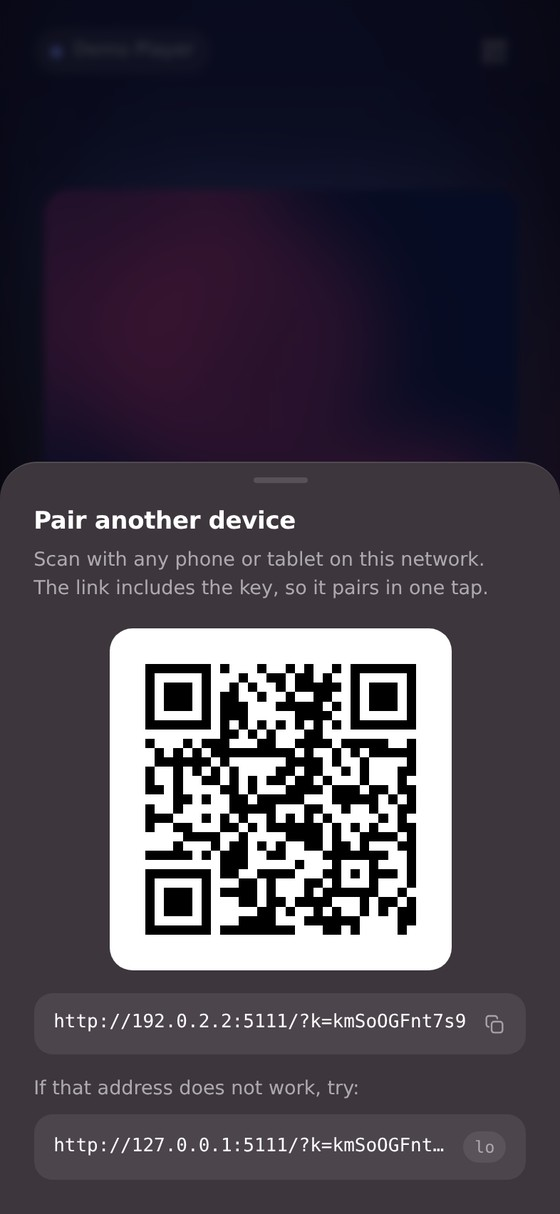
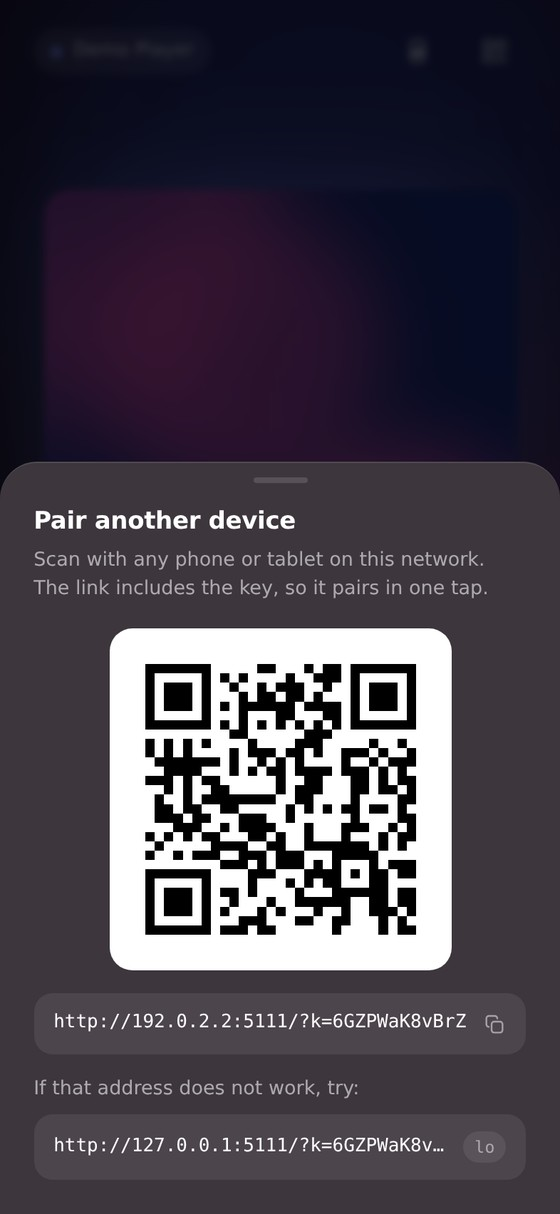
Put the PC's playback on the phone's lock screen
A web page only earns a place on a phone's lock screen while it is audibly
playing something, so a new toggle in the header loops ten seconds of digital
silence and paints the PC's track over it through the Media Session API: the
real artwork, title, play/pause, skip and the lock screen's own scrubber, all
wired back to the PC. Works on iOS 15+ and Android Chrome.

The details that make it behave:
- The silence is genuinely silent samples, because iOS ignores an audio
  element's volume property; and it is served with range support, because
  Safari refuses media from a server that will not serve it partially.
- The anchor track mirrors the remote state -- a pause on the PC pauses the
  silence -- because iOS shows the element's actual state on the lock screen,
  not the declared one.
- Opt-in, off by default: holding a lock-screen spot means taking the phone's
  audio focus, which pauses whatever the phone itself was playing, and autoplay
  rules require a tap to start audio anyway. The choice is remembered, and after
  a reload the first tap anywhere re-arms it.
- Explicit play/pause commands where the app advertises them, its toggle
  otherwise; the lock-screen scrubber seeks only when the app allows seeking.
- With nothing playing on the PC the tile is cleared rather than left showing a
  stale track over silence.

Verified in a browser: enabling starts the anchor and fills the session's
metadata and artwork, remote pause/play and track changes follow through to the
[…]

diff --git a/static/app.js b/static/app.js
@@ -30,6 +30,7 @@
     source: $('source'), sourceName: $('sourceName'),
     sourceSheet: $('sourceSheet'), sourceList: $('sourceList'),
     pair: $('pair'), pairSheet: $('pairSheet'), qrHolder: $('qrHolder'),
+    lockscreen: $('lockscreen'),
     pairUrl: $('pairUrl'), copyUrl: $('copyUrl'), altUrls: $('altUrls'),
     empty: $('empty'), emptyTitle: $('emptyTitle'), emptyBody: $('emptyBody'),
     toast: $('toast'), themeColor: document.querySelector('meta[name="theme-color"]'),
@@ -424,6 +425,7 @@
     if (!seekable()) seekRail.cancel();
     if (!(next.volume && next.volume.available)) volRail.cancel();
 
+    lockscreen.sync(next);
     renderVolume();
     renderSources(next);
     renderTime();
@@ -657,6 +659,160 @@
     }
   }
   el.copyUrl.addEventListener('click', () => copy(el.copyUrl.dataset.url));
+
+  /* ------------------------------------------------------------- lock screen --
+   * A web page only gets a spot on the phone's lock screen while it is "playing"
+   * something, so this loops ten seconds of digital silence and paints the PC's track
+   * over it through the Media Session API: artwork, title, transport buttons and the
+   * scrubber all appear where a local player's would. Opt-in, because starting the
+   * silent track takes the phone's audio focus -- it will pause anything the phone
+   * itself is playing -- and because autoplay rules require a tap to start it anyway.
+   */
+
+  const lockscreen = (() => {
+    const supported = 'mediaSession' in navigator && typeof MediaMetadata === 'function';
+    let enabled = false;
+    let audio = null;
+    let lastSignature = '';
+
+    const remember = (on) => {
+      try {
+        if (on) localStorage.setItem('werv_lockscreen', '1');
+        else localStorage.removeItem('werv_lockscreen');
+      } catch (_) { /* private mode: the preference just does not stick */ }
+    };
+    const remembered = () => {
+      try { return localStorage.getItem('werv_lockscreen') === '1'; } catch (_) { return false; }
+    };
+
+    function anchor() {
+      if (!audio) {
+        audio = document.createElement('audio');
+        audio.id = 'anchor';
+        audio.loop = true;
+        audio.preload = 'none';        // nothing is fetched until the feature is used
+        audio.src = '/silence.wav';
+        audio.hidden = true;
+        document.body.append(audio);
+      }
+      return audio;
+    }
+
+    function act(name, handler) {
+      // Unknown action names throw rather than no-op, and the supported set differs
+      // by platform and version.
+      try { navigator.mediaSession.setActionHandler(name, handler); } catch (_) { /* not offered here */ }
+    }
+
+    function register() {
+      // Explicit play/pause when the app advertises them; its toggle otherwise. The
+      // lock screen only shows one of the two at a time, so toggle is a safe stand-in.
+      act('play', () => { anchor().play().catch(() => {}); send(state && state.can.play ? 'play' : 'toggle'); });
+      act('pause', () => { anchor().pause(); send(state && state.can.pause ? 'pause' : 'toggle'); });
+      act('previoustrack', () => send('previous'));
+      act('nexttrack', () => send('next'));
+      act('seekto', (details) => {
+        if (state && state.timeline.seekable && typeof details.seekTime === 'number') {
+          send('seek', { seconds: details.seekTime });
+        }
+      });
+    }
+
+    function unregister() {
+      ['play', 'pause', 'previoustrack', 'nexttrack', 'seekto'].forEach((name) => act(name, null));
+    }
+
+    function sync(next) {
+      if (!enabled || !supported) return;
+      const session = navigator.mediaSession;
+      if (!next || next.status === 'idle' || next.status === 'unavailable') {
+        // Nothing to control: a lock-screen tile for silence would just be confusing.
+        session.metadata = null;
+        session.playbackState = 'none';
+        if (audio) audio.pause();
+        lastSignature = '';
+        return;
+      }
+
+      const track = next.track;
+      const signature = `${track.id}|${track.art || ''}`;
+      if (signature !== lastSignature) {
+        lastSignature = signature;
+        session.metadata = new MediaMetadata({
+          title: track.title || 'Unknown track',
+          artist: track.artist || '',
+          album: track.album || '',
+          artwork: track.art
+            ? [{ src: new URL(track.art, location.href).href, sizes: '640x640', type: 'image/jpeg' }]
+            : [],
+        });
+      }
+
+      const playing = next.status === 'playing';
+      session.playbackState = playing ? 'playing' : 'paused';
+      // Mirror the anchor: iOS shows the *element's* state, not the declared one, so a
+      // remote pause has to actually pause the silence for the lock screen to agree.
+      if (playing) anchor().play().catch(() => { /* needs a fresh gesture; the button re-arms */ });
+      else if (audio) audio.pause();
+
+      const { duration, rate } = next.timeline;
+      if (duration > 0 && isFinite(duration)) {
+        try {
+          session.setPositionState({
+            duration,
+            playbackRate: rate || 1,
+            position: clamp(livePosition(), 0, duration),
+          });
+        } catch (_) { /* a UA that dislikes the numbers keeps its own estimate */ }
+      }
+    }
+
+    async function enable({ quiet = false } = {}) {
+      if (!supported || enabled) return enabled;
+      try {
+        await anchor().play();
+      } catch (_) {
+        // Autoplay rules want a user gesture; the next tap anywhere will retry.
+        if (!quiet) toast('Tap the phone button again to allow it');
+        armRestore();
+        return false;
+      }
+      enabled = true;
+      remember(true);
+      register();
+      el.lockscreen.setAttribute('aria-pressed', 'true');
+      sync(state);
+      if (!quiet) toast('Controls will show on the lock screen');
+      return true;
+    }
+
+    function disable() {
+      enabled = false;
+      remember(false);
+      unregister();
+      if (audio) audio.pause();
+      navigator.mediaSession.metadata = null;
+      navigator.mediaSession.playbackState = 'none';
+      lastSignature = '';
+      el.lockscreen.setAttribute('aria-pressed', 'false');
+    }
+
+    function armRestore() {
+      document.addEventListener('click', () => { enable({ quiet: true }); }, { once: true });
+    }
+
+    if (supported) {
+      el.lockscreen.hidden = false;
+      el.lockscreen.addEventListener('click', () => {
+        buzz();
+        if (enabled) { disable(); toast('Lock screen player off'); }
+        else enable();
+      });
+      if (remembered()) armRestore();
+    }
+
+    return { sync };
+  })();
 
   /* -------------------------------------------------------------- keyboard --- */
 

diff --git a/templates/remote.html b/templates/remote.html
@@ -29,6 +29,10 @@
       <span class="label" id="sourceName">Connecting</span>
     </button>
     <div class="spacer"></div>
+    <button class="chip" id="lockscreen" type="button" hidden
+            aria-pressed="false" aria-label="Show controls on this phone's lock screen">
+      <svg aria-hidden="true"><use href="#i-lockscreen"></use></svg>
+    </button>
     <button class="chip" id="pair" type="button" aria-haspopup="dialog" aria-label="Pair another device">
       <svg aria-hidden="true"><use href="#i-qr"></use></svg>
     </button>
@@ -182,6 +186,13 @@
           stroke-width="1.7" stroke-linecap="round" stroke-linejoin="round">
     <path d="M9 18.2V5.4l10-2v12.4"/>
     <circle cx="6.6" cy="18.2" r="2.6"/><circle cx="16.6" cy="15.8" r="2.6"/>
+  </symbol>
+  <symbol id="i-lockscreen" viewBox="0 0 24 24" fill="none" stroke="currentColor"
+          stroke-width="1.8" stroke-linecap="round" stroke-linejoin="round">
+    <rect x="6.4" y="2.8" width="11.2" height="18.4" rx="2.8"/>
+    <path d="M10.9 14.7v-4.2l3.4-.9v4.2"/>
+    <circle cx="9.6" cy="14.7" r="1.4"/>
+    <circle cx="14.3" cy="13.8" r="1.4"/>
   </symbol>
   <symbol id="i-qr" viewBox="0 0 24 24" fill="none" stroke="currentColor"
           stroke-width="1.8" stroke-linecap="round" stroke-linejoin="round">

diff --git a/static/app.css b/static/app.css
@@ -180,6 +180,7 @@ body[data-link="lost"]  .link { background: #f0a13c; animation: pulse 1s var(--e
 .chip:hover { background: var(--surface); color: var(--ink); }
 .chip:active { transform: scale(0.9); }
 .chip svg { width: 20px; height: 20px; }
+.chip[aria-pressed="true"] { color: var(--accent); }
 
 /* -------------------------------------------------------------- album art -- */
 

diff --git a/werv/server.py b/werv/server.py
@@ -9,6 +9,7 @@ usual browser-side attacks against a local service are closed off deliberately.
 
 from __future__ import annotations
 
+import io
 import ipaddress
 import logging
 import queue
@@ -18,7 +19,8 @@ from functools import wraps
 from pathlib import Path
 
 from flask import (
-    Flask, Response, abort, jsonify, make_response, redirect, render_template, request, url_for,
+    Flask, Response, abort, jsonify, make_response, redirect, render_template, request,
+    send_file, url_for,
 )
 
 from . import __version__, net
@@ -279,6 +281,22 @@ def create_app(hub: MediaHub, *, token: str | None, port: int, bind: str | None 
             "ETag": etag,
         })
 
+    @app.get("/silence.wav")
+    @guard
+    def silence():
+        """The silent audio the phone loops to hold a place on its lock screen.
+
+        A web page only gets lock-screen media controls while it is audibly "playing
+        something", so when the feature is on the remote loops this -- ten seconds of
+        digital silence -- and paints the PC's track over it through the Media Session
+        API. Served with range support because Safari refuses media from a server that
+        will not serve it partially.
+        """
+        response = send_file(io.BytesIO(_silence_wav()), mimetype="audio/wav",
+                             conditional=True, etag="silence-1")
+        response.headers["Cache-Control"] = "public, max-age=31536000, immutable"
+        return response
+
     @app.get("/health")
     def health():
         # Deliberately open, so "is it running?" needs no pairing -- but behind the same
@@ -308,6 +326,26 @@ def create_app(hub: MediaHub, *, token: str | None, port: int, bind: str | None 
 
 
 _icon_cache: dict[int, bytes] = {}
+_silence_cache: list[bytes] = []
+
+
+def _silence_wav(seconds: float = 10.0, rate: int = 8000) -> bytes:
+    """Ten seconds of genuine silence, as small as WAV allows.
+
+    Genuinely silent samples, not merely a muted element: iOS ignores the volume
+    property on audio elements, so the quiet has to be in the data itself.
+    """
+    if not _silence_cache:
+        import wave
+
+        buffer = io.BytesIO()
+        with wave.open(buffer, "wb") as writer:
+            writer.setnchannels(1)
+            writer.setsampwidth(1)          # 8-bit unsigned: silence is 0x80
+            writer.setframerate(rate)
+            writer.writeframes(b"\x80" * int(seconds * rate))
+        _silence_cache.append(buffer.getvalue())
+    return _silence_cache[0]
 
 _ICON_SVG = (
     '<svg xmlns="http://www.w3.org/2000/svg" viewBox="0 0 512 512">'

diff --git a/tests/test_server.py b/tests/test_server.py
@@ -295,3 +295,34 @@ def test_the_pairing_sheet_only_offers_the_bound_address(hub):
     info = json.loads(session.get("/api/pair").data)
     assert info["url"].startswith("http://127.0.0.1:5000/")
     assert info["alternatives"] == []
+
+
+def test_the_silent_track_is_a_valid_loopable_wav(paired):
+    """The lock-screen feature loops this; a malformed file fails silently on a phone."""
+    import io as io_
+    import wave
+
+    response = paired.get("/silence.wav")
+    assert response.status_code == 200
+    assert response.mimetype == "audio/wav"
+    with wave.open(io_.BytesIO(response.data)) as reader:
+        assert reader.getnchannels() == 1
+        seconds = reader.getnframes() / reader.getframerate()
+        assert 5 <= seconds <= 30
+        # Genuinely silent samples: iOS ignores the element's volume property, so the
+        # quiet has to be in the data.
+        assert set(reader.readframes(reader.getnframes())) == {0x80}
+
+
+def test_the_silent_track_supports_range_requests(paired):
+    """Safari refuses media from servers that will not serve it partially."""
+    whole = paired.get("/silence.wav")
+    assert whole.headers.get("Accept-Ranges") == "bytes"
+    part = paired.get("/silence.wav", headers={"Range": "bytes=0-99"})
+    assert part.status_code == 206
+    assert len(part.data) == 100
+    assert part.data == whole.data[:100]
+
+
+def test_the_silent_track_needs_pairing(client):
+    assert client.get("/silence.wav").status_code == 401

diff --git a/README.md b/README.md
@@ -31,6 +31,9 @@ or getting up.
 - **Pick your source.** Music in Spotify and a video in a browser tab at the same time?
   Tap the name at the top and choose which one the remote drives.
 - **It looks like the music.** The interface takes its colours from the album art.
+- **Control from the lock screen.** Turn it on with the phone button in the header and
+  the PC's track — artwork, title, play/pause, skip and the scrubber — appears on your
+  phone's lock screen like a local player, on iOS and Android.
 - **Add it to your home screen** and it opens full-screen, like an app.
 
 ## Installation
@@ -86,6 +89,18 @@ wrong one to the front — the pairing sheet lists the other addresses your PC h
 
 If the QR code is hard to scan because your terminal has a light background, run with
 `--qr-light`.
+
+### Lock-screen controls
+
+Tap the phone button in the top corner of the remote to put the PC's playback on your
+phone's lock screen. While it is on, the page quietly loops a silent track — that is
+what earns a web page a place on the lock screen — and paints the real artwork, title
+and transport over it, so you can pause and skip without unlocking the phone.
+
+It is off by default because holding a spot on the lock screen means taking the phone's
+audio focus: turning it on will pause anything the phone itself is playing. The setting
+is remembered; after a reload, the first tap anywhere switches it back on (browsers
+require a touch before a page may start audio).
 
 ## Configuration
 
@@ -146,6 +161,11 @@ tabs in particular often allow only play and pause.
 
 **No volume slider.** `pycaw` is not installed — `pip install pycaw`. Everything else
 keeps working without it.
+
+**No lock-screen controls.** They have to be switched on with the phone button in the
+header, and the browser must support the Media Session API (iOS 15+, any recent
+Android Chrome). If the toggle will not stick, tap it once more — browsers demand a
+fresh touch before a page may start audio.
 
 ## How it works
 
